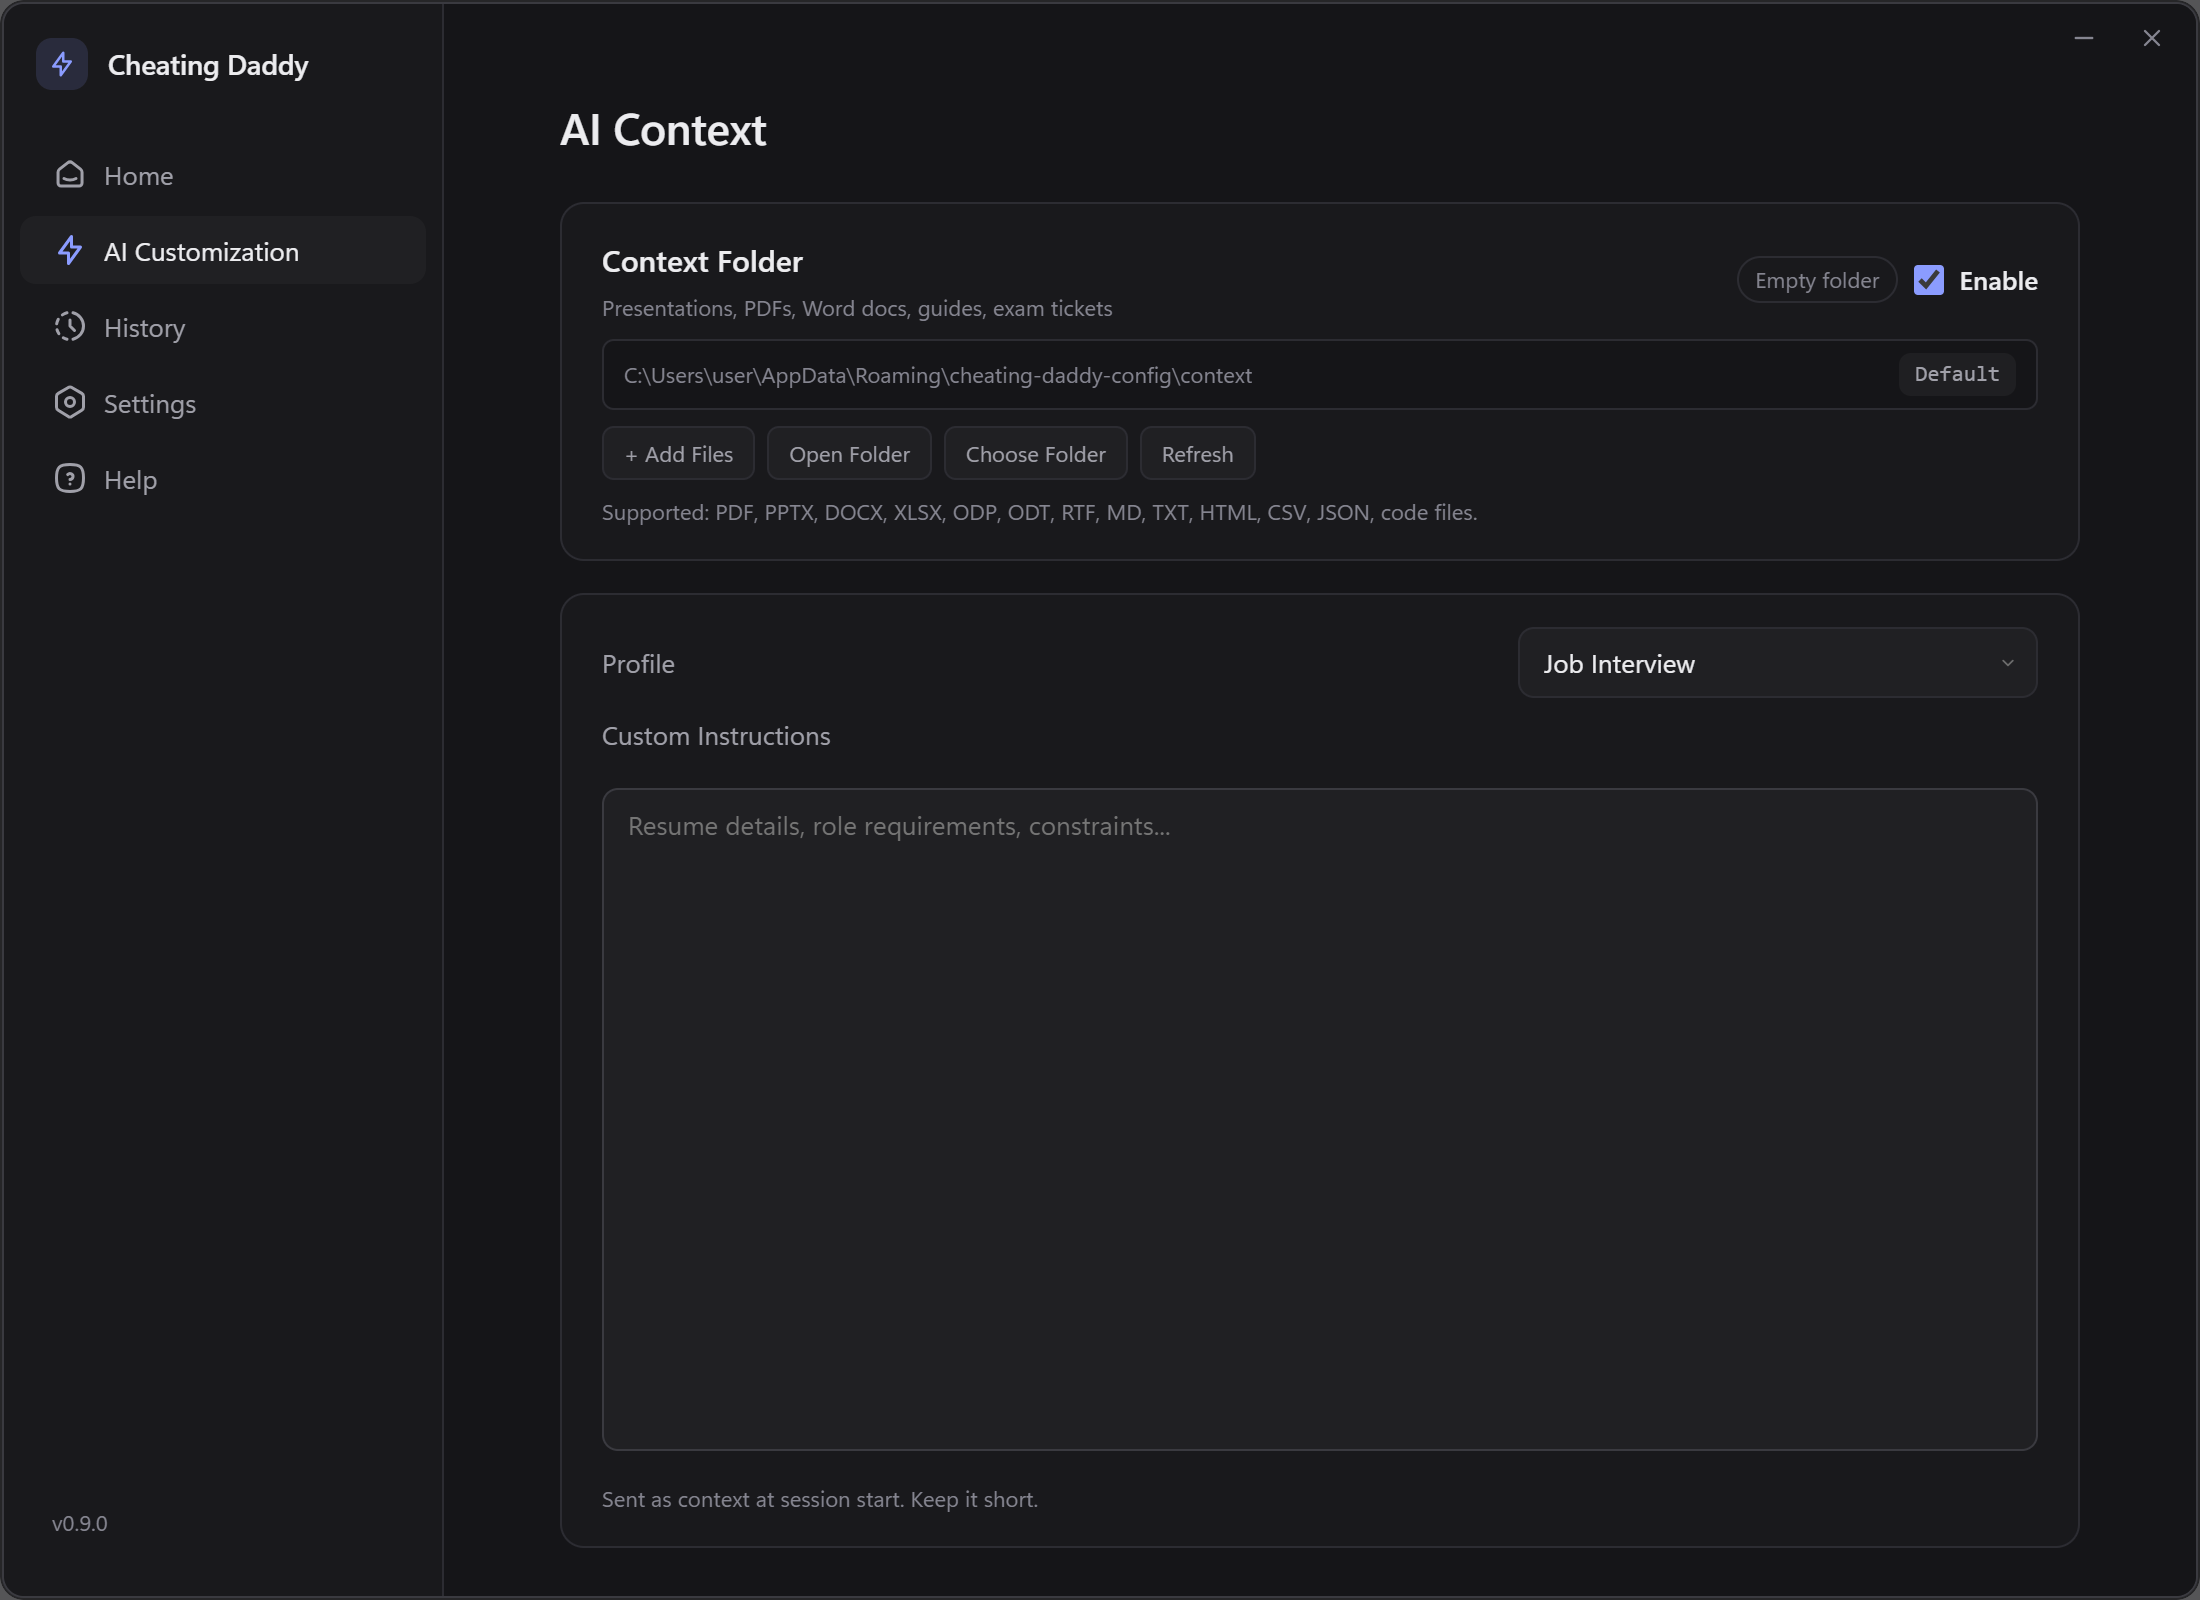
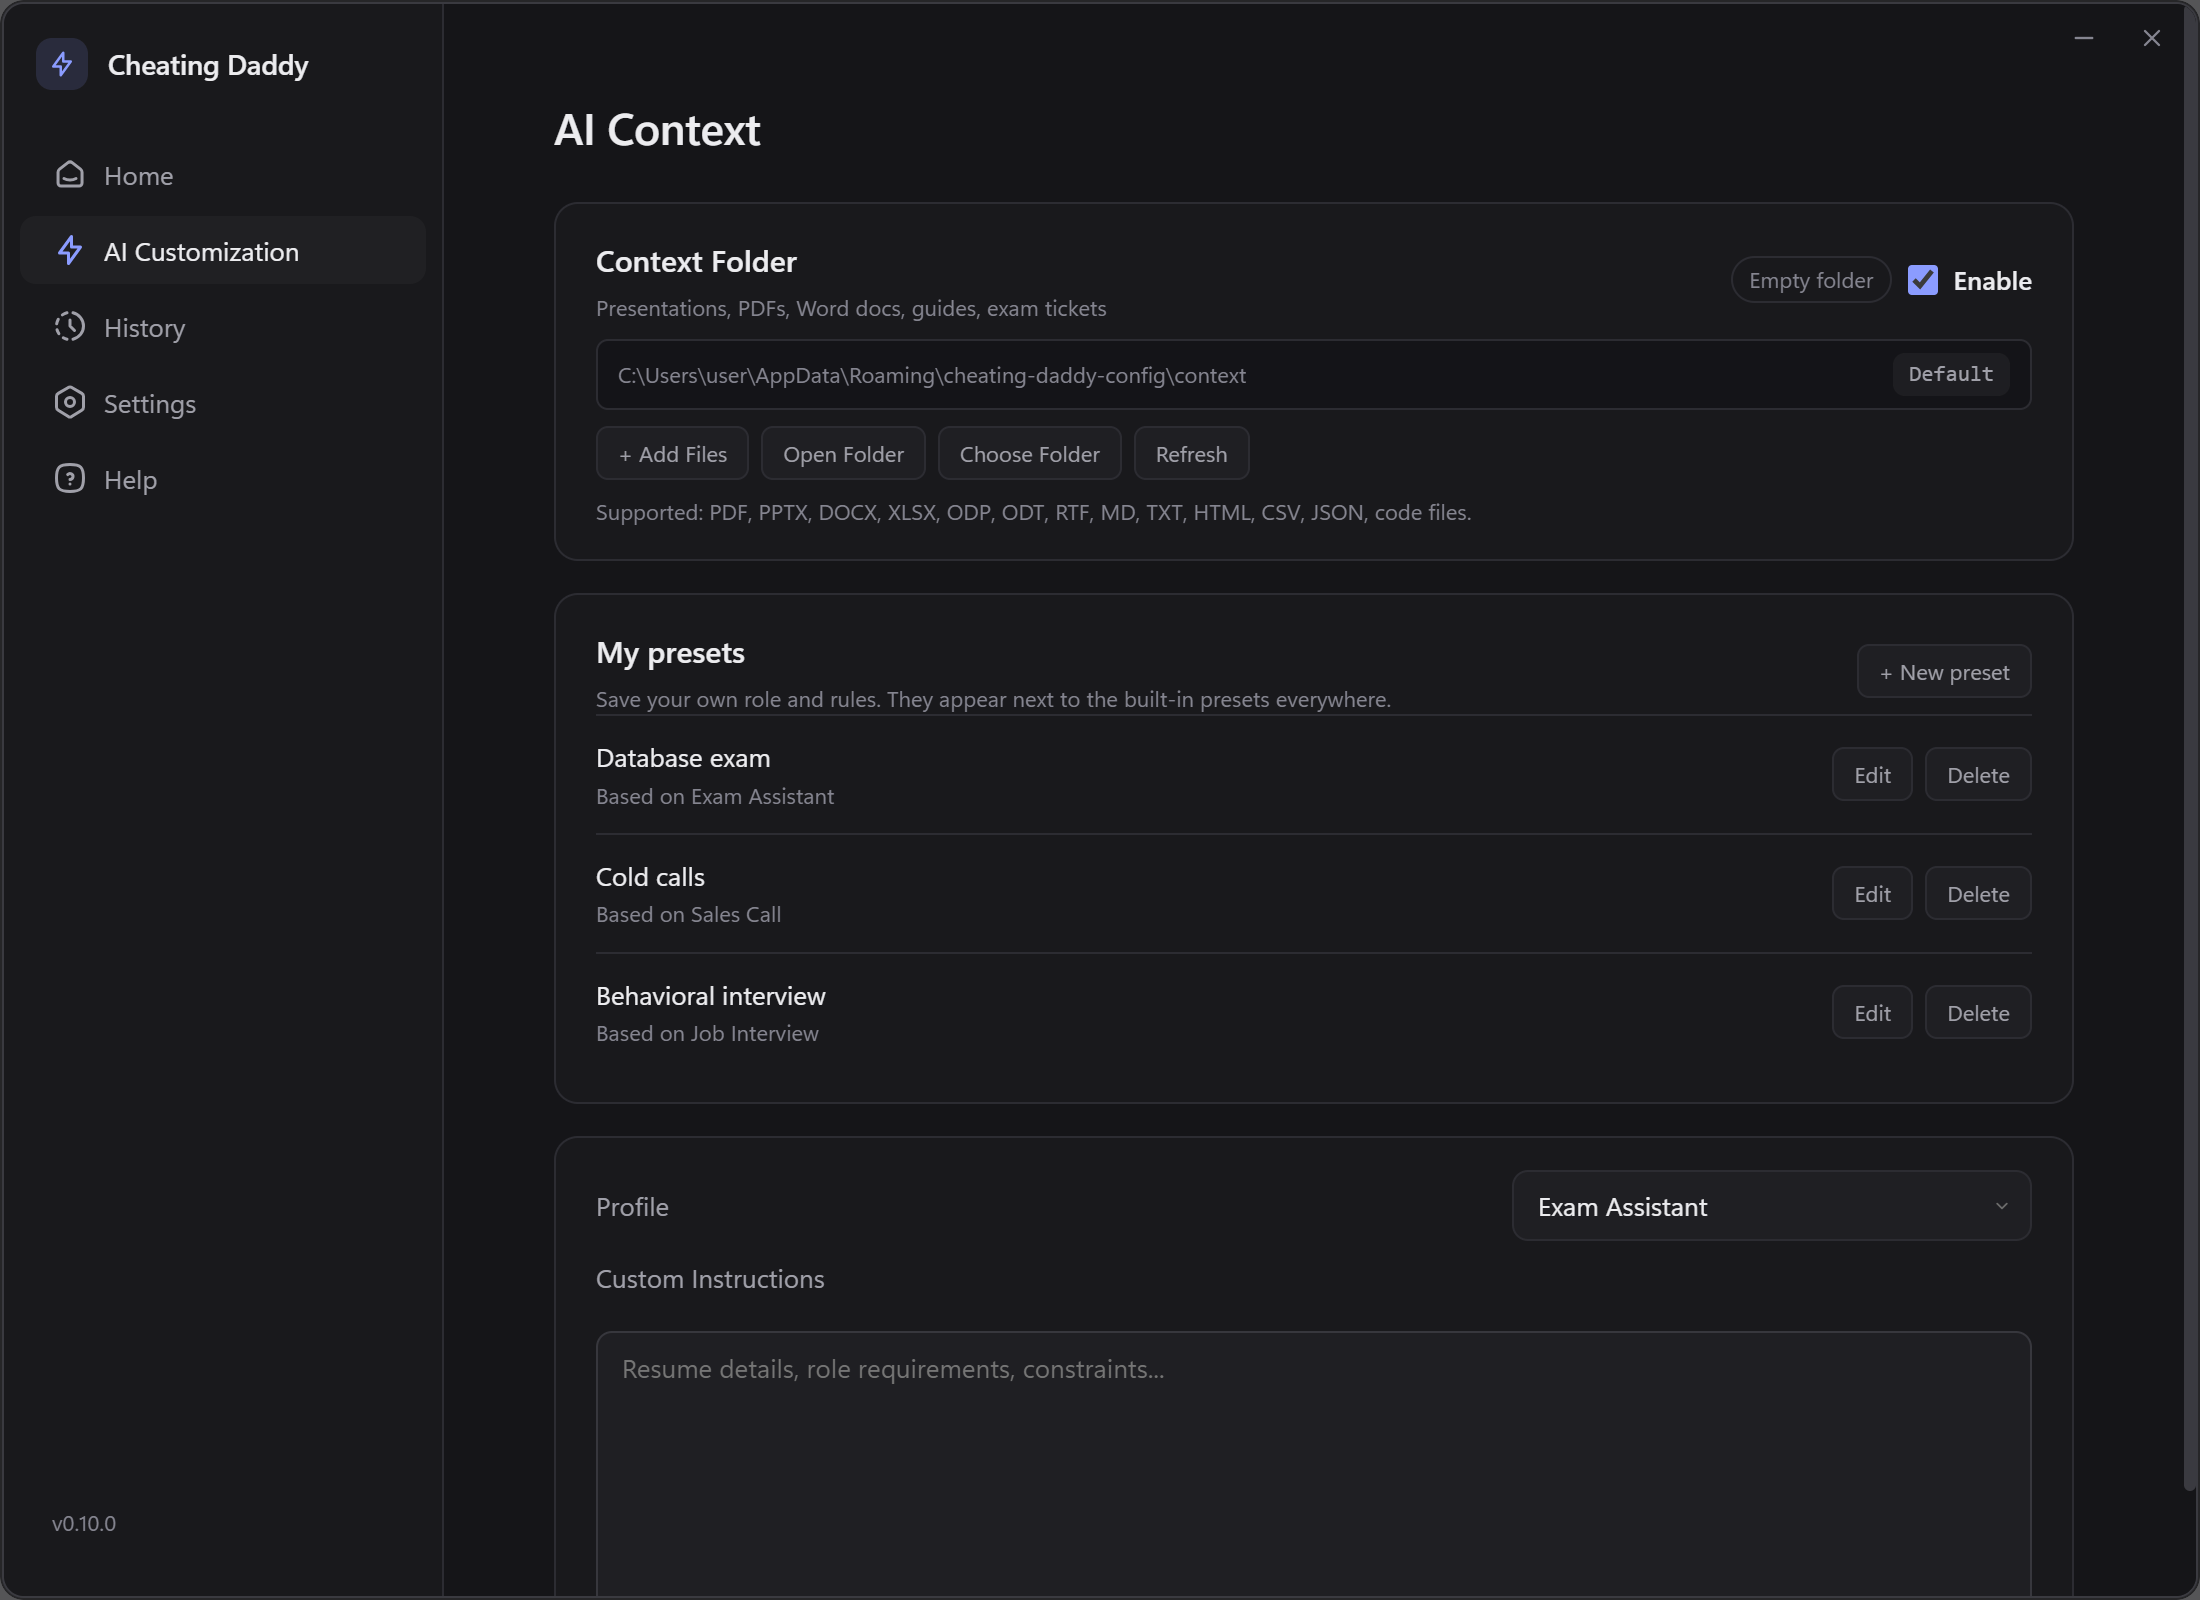
docs: update README and screenshots for 0.10.0

diff --git a/README.md b/README.md
@@ -30,22 +30,28 @@ using your own **Claude Pro** or **Google AI Pro** subscription — or fully off
 
 ## ✨ Features
 
-|                             |                                                                                                       |
-| --------------------------- | ----------------------------------------------------------------------------------------------------- |
-| 🖥 **Transparent overlay**  | Always-on-top window with content protection — hidden from screen shares and screenshots on Windows.  |
-| 🎙 **Local voice-to-text**  | `whisper.cpp` with Vulkan GPU acceleration and a safe CPU fallback. No STT API keys.                  |
-| 🧠 **Bring your own AI**    | Claude Code CLI, Google Antigravity CLI (`agy`), Gemini / Groq keys, or a local GGUF model.           |
-| 🔁 **Live provider switch** | Swap between Claude and Gemini mid-session with context preserved, plus auto-fallback on rate limits. |
-| 📂 **Context folder**       | Drop slides, PDFs, docs and notes — answers are grounded in your own material.                        |
-| 🎯 **Presets**              | Job interview, exam, meeting, sales call, presentation, negotiation.                                  |
-| 🌍 **Multilingual**         | Auto-detect speech language; pick the response language (including Ukrainian).                        |
-| ⌨ **Keyboard-first**       | Every action has a customizable global shortcut.                                                      |
+|                             |                                                                                                                             |
+| --------------------------- | --------------------------------------------------------------------------------------------------------------------------- |
+| 🖥 **Transparent overlay**  | Always-on-top window with content protection — hidden from screen shares and screenshots on Windows.                        |
+| 🎙 **Local voice-to-text**  | `whisper.cpp` with Vulkan GPU acceleration and a safe CPU fallback. No STT API keys.                                        |
+| 🧠 **Bring your own AI**    | Claude Code CLI, Google Antigravity CLI (`agy`), Gemini / Groq keys, or a local GGUF model.                                 |
+| 🔁 **Live provider switch** | Swap between Claude and Gemini mid-session with context preserved, plus auto-fallback on rate limits.                       |
+| 📂 **Context folder**       | Drop slides, PDFs, docs and notes — answers are grounded in your own material.                                              |
+| 🎯 **Presets**              | Job interview, exam, meeting, sales call, presentation, negotiation — plus your own custom presets with saved instructions. |
+| 📝 **Live transcript**      | See what was heard (You / Speaker) and send any line to the AI with one click.                                              |
+| 📋 **Copy & export**        | Copy any answer, or export a whole session from History as a Markdown file.                                                 |
+| 🟢 **Subscription status**  | A status dot on the provider pill shows whether Claude or Gemini is working, rate-limited or needs sign-in.                 |
+| 🗂 **Data control**         | See what is stored and how big it is, clear it by category, and auto-delete old history after 7, 30 or 90 days.             |
+| 🌍 **Multilingual**         | Auto-detect speech language; pick the response language (including Ukrainian).                                              |
+| ⌨ **Keyboard-first**       | Every action has a customizable global shortcut.                                                                            |
 
 <br />
 
 <div align="center">
-<img src="docs/screenshots/live.png" alt="Live session" width="49%" />
+<img src="docs/screenshots/live.png" alt="Live session with transcript" width="49%" />
+<img src="docs/screenshots/ai-context.png" alt="Custom presets" width="49%" />
 <img src="docs/screenshots/settings.png" alt="Settings" width="49%" />
+<img src="docs/screenshots/data.png" alt="Data and storage" width="49%" />
 </div>
 
 <br />
@@ -107,25 +113,21 @@ npm start
 
 Verified `whisper.cpp` binaries and quantized models (`small-q5_1`, `base-q5_1`, `large-v3-turbo-q5_0`, …) are downloaded automatically on first launch. Vulkan GPU acceleration is enabled on supported Windows GPUs and falls back to CPU (`-ng`) if GPU initialization fails.
 
-| Audio input mode        | Captures                                                                                                                                                              |
-| ----------------------- | --------------------------------------------------------------------------------------------------------------------------------------------------------------------- |
-| **System audio only**   | Remote speakers (Zoom, Meet, browser output).                                                                                                                         |
-| **Microphone only**     | Your own voice.                                                                                                                                                       |
-| **Microphone + system** | Both. Your speech is buffered quietly as _silent microphone context_ and attached when the other side replies — or press **Далі** to get a 1–2 sentence continuation. |
+| Audio input mode        | Captures                                                                                                                                                                  |
+| ----------------------- | ------------------------------------------------------------------------------------------------------------------------------------------------------------------------- |
+| **System audio only**   | Remote speakers (Zoom, Meet, browser output).                                                                                                                             |
+| **Microphone only**     | Your own voice.                                                                                                                                                           |
+| **Microphone + system** | Both. Your speech is buffered quietly as _silent microphone context_ and attached when the other side replies — or press **Continue** to get a 1–2 sentence continuation. |
 
 <br />
 
 ## 📂 Context folder
-
-<img align="right" src="docs/screenshots/ai-context.png" alt="AI context screen" width="320" />
 
 Drop files into the context folder right from **Home** or **AI Context**.
 
 - **Formats:** `.pptx` (slides + speaker notes), `.odp`, `.pdf` (per page, Unicode-safe), `.docx`, `.odt`, `.rtf`, `.xlsx`, `.html`, `.md`, `.txt`, `.csv`, `.json`, `.yaml` and source code.
 - **Full mode** (≤ 24,000 chars): everything is loaded into the session context and cached.
 - **Smart search** (> 24,000 chars): a compact catalog goes into the prompt and the top 5 matching chunks (`[Context: file · Slide/Page]`) are attached to each question.
-
-<br clear="right" />
 
 <br />
 
